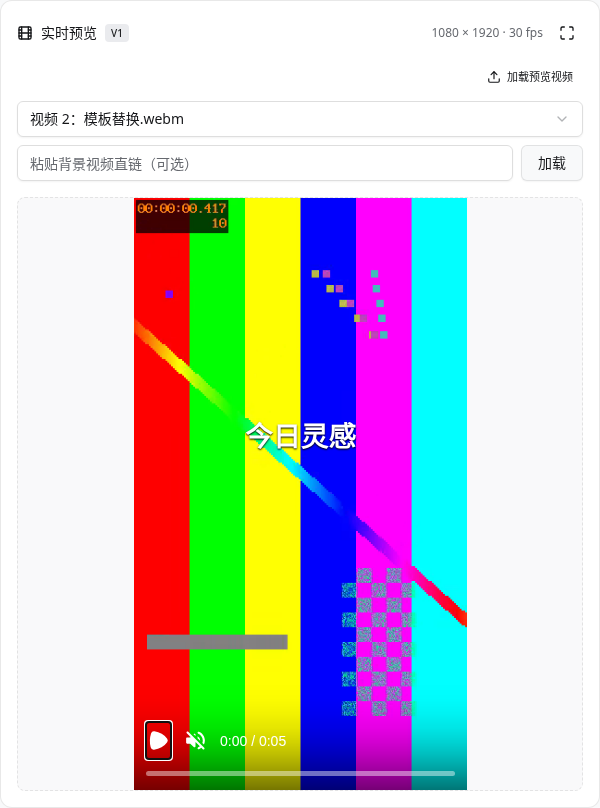
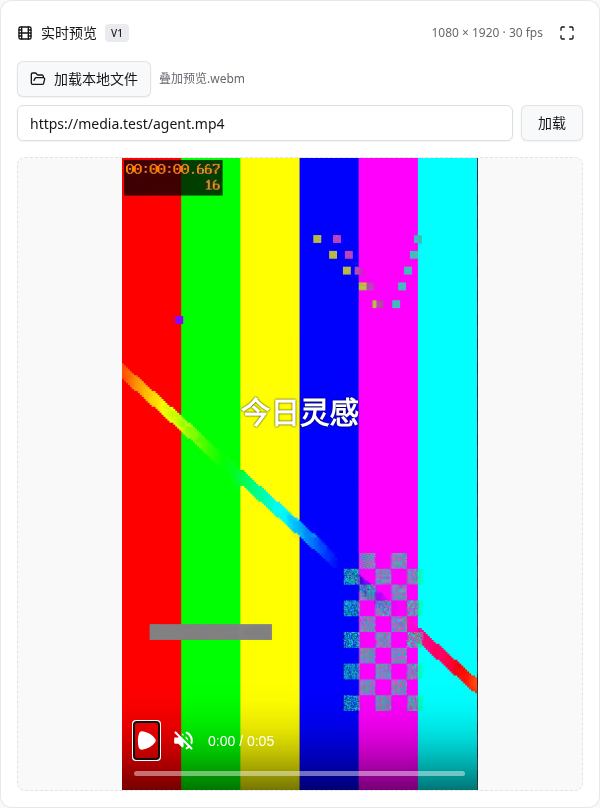
fix(remotion): simplify preview video inputs

Changed region(s): [[0.03, 0.0619, 0.96, 0.9901]]

diff --git a/client/src/features/remotion_templates/PreviewPanel.tsx b/client/src/features/remotion_templates/PreviewPanel.tsx
@@ -3,13 +3,11 @@
  * 清理消息监听和就绪超时。带关键词字效的字效在未填关键词时以示例关键词预览（见 `sampleKeyword`），参数本身不变。
  */
 import { useEffect, useMemo, useRef, useState } from "react";
-import { Film, Maximize, RotateCcw } from "lucide-react";
+import { Film, FolderOpen, Maximize, RotateCcw } from "lucide-react";
 import { Button } from "@/components/ui/button";
 import { Input } from "@/components/ui/input";
-import { Select, SelectContent, SelectItem, SelectTrigger, SelectValue } from "@/components/ui/select";
-import { localPreviewVideos, localVideoSlots, subscribeLocalVideos } from "@/features/templates/localVideos";
-import { MasterVideoInput } from "@/features/templates/MasterVideoInput";
-import type { PreviewMedia } from "@/features/templates/model";
+import { commitLocalVideos, LOCAL_VIDEO_MAX_BYTES, localPreviewVideos, localVideoSlots, subscribeLocalVideos } from "@/features/templates/localVideos";
+import { readMasterVideo } from "@/features/templates/media";
 import { apiUrl } from "./api";
 import { backgroundUrl, sampleKeyword, type Values, type Version } from "./model";
 import { Spinner } from "@/components/ui/spinner";
@@ -30,11 +28,11 @@ export function PreviewPanel({
   const shown = useMemo(() => (sample ? { ...values, keywords: [sample] } : values), [values, sample]);
   const [link, setLink] = useState("");
   const [background, setBackground] = useState("");
-  const [localSlot, setLocalSlot] = useState<number | null>(null);
-  const [localVideos, setLocalVideos] = useState(localVideoSlots);
-  const [media, setMedia] = useState<PreviewMedia>();
+  const [useLocal, setUseLocal] = useState(true);
+  const [localVideo, setLocalVideo] = useState(() => localVideoSlots()[0]);
+  const [loadingFile, setLoadingFile] = useState(false);
   const [backgroundError, setBackgroundError] = useState("");
-  const videoUrl = localSlot === null ? background : localVideos[localSlot]?.url ?? "";
+  const videoUrl = useLocal ? localVideo?.url ?? "" : background;
   const [error, setError] = useState("");
   // 已就绪的通道而不是布尔值：切换版本时 iframe 若在清空渲染前就回报就绪，false→true 会被合并成未变化，
   // 参数不再下发，预览锁到超时；每次加载的通道都不同，就绪必然触发一次下发。
@@ -43,6 +41,8 @@ export function PreviewPanel({
   const [reload, setReload] = useState(0);
   const frame = useRef<HTMLIFrameElement>(null);
   const stage = useRef<HTMLDivElement>(null);
+  const picker = useRef<HTMLInputElement>(null);
+  const fileRequest = useRef<AbortController | null>(null);
   const channel = useRef("");
   const requestId = useRef(0);
   const timer = useRef<number | undefined>(undefined);
@@ -50,12 +50,12 @@ export function PreviewPanel({
   const rendered = useRef(false);
   useEffect(() => {
     let active = true;
-    const refresh = (sources?: PreviewMedia) => { setLocalVideos(localVideoSlots()); setMedia(sources); };
+    const refresh = () => setLocalVideo(localVideoSlots()[0]);
     const unsubscribe = subscribeLocalVideos(refresh);
     void localPreviewVideos().then(() => { if (active) refresh(); }).catch((reason) => {
       if (active) setBackgroundError(reason instanceof Error ? reason.message : "本地视频读取失败");
     });
-    return () => { active = false; unsubscribe(); };
+    return () => { active = false; unsubscribe(); fileRequest.current?.abort(); };
   }, []);
   useEffect(() => { setBackgroundError(""); }, [videoUrl]);
   /** 每次加载都有超时出口；播放本身不触发锁定。 */
@@ -146,12 +146,34 @@ export function PreviewPanel({
       );
     }
   }, [shown, ready]);
+  /** 只校验所选文件并替换共享视频 1；失败保留旧视频，未登记的 URL 及时释放。 */
+  async function pick(file: File | undefined) {
+    if (!file || fileRequest.current) return;
+    if (file.size > LOCAL_VIDEO_MAX_BYTES) { setBackgroundError("本地视频不能超过 512 MiB"); return; }
+    const request = new AbortController();
+    fileRequest.current = request;
+    const url = URL.createObjectURL(file);
+    setLoadingFile(true);
+    setBackgroundError("");
+    try {
+      const media = await readMasterVideo(url, request.signal);
+      if (request.signal.aborted) return;
+      await commitLocalVideos([{ kind: "file", name: file.name, url, file }], [media]);
+      if (!request.signal.aborted) { setUseLocal(true); setBackground(""); }
+    } catch (reason) {
+      if (!request.signal.aborted) setBackgroundError(reason instanceof Error ? reason.message : "本地视频读取失败");
+    } finally {
+      if (localVideoSlots()[0]?.url !== url) URL.revokeObjectURL(url);
+      fileRequest.current = null;
+      if (!request.signal.aborted) setLoadingFile(false);
+    }
+  }
   /** 直链与本地文件都只更新客户端底层视频。 */
   function load() {
-    if (pending || rendering) return;
+    if (pending || rendering || loadingFile) return;
     try {
       setBackground(backgroundUrl(link));
-      setLocalSlot(null);
+      setUseLocal(false);
       setBackgroundError("");
     } catch (reason) {
       setBackgroundError(reason instanceof Error ? reason.message : "视频链接无效");
@@ -180,25 +202,14 @@ export function PreviewPanel({
           <Maximize aria-hidden="true" />
         </Button>}
       </div>
-      <div className="mb-2 flex">
-        <MasterVideoInput media={media} onChange={(sources) => {
-          const index = localSlot !== null && sources[localSlot].url.startsWith("blob:")
-            ? localSlot : sources.findIndex((video) => video.url.startsWith("blob:"));
-          setLocalSlot(index < 0 ? null : index);
-          setBackground(index < 0 ? sources[0].url : "");
-        }} />
+      <div className="mb-2 flex min-w-0 items-center gap-2">
+        <input ref={picker} type="file" accept="video/*" aria-label="本地预览视频文件" className="sr-only" tabIndex={-1}
+          onChange={(event) => { void pick(event.target.files?.[0]); event.target.value = ""; }} />
+        <Button type="button" variant="outline" disabled={loadingFile} onClick={() => picker.current?.click()}>
+          {loadingFile ? <Spinner /> : <FolderOpen aria-hidden="true" />}{loadingFile ? "正在加载…" : "加载本地文件"}
+        </Button>
+        {useLocal && localVideo && <span className="truncate text-xs text-muted-foreground" title={localVideo.name}>{localVideo.name}</span>}
       </div>
-      <Select value={localSlot !== null && localVideos[localSlot] ? String(localSlot) : background ? "url" : "none"}
-        onValueChange={(value) => { setLocalSlot(value === "none" || value === "url" ? null : Number(value)); if (value !== "url") setBackground(""); }}>
-        <SelectTrigger aria-label="预览背景" className="mb-2 w-full"><SelectValue /></SelectTrigger>
-        <SelectContent>
-          <SelectItem value="none">无背景视频</SelectItem>
-          {localVideos.map((video, index) => <SelectItem key={index} value={String(index)} disabled={!video}>
-            视频 {index + 1}：{video?.name ?? "未加载本地文件"}
-          </SelectItem>)}
-          {background && <SelectItem value="url">已加载的视频直链</SelectItem>}
-        </SelectContent>
-      </Select>
       <form
         className="mb-4 flex gap-2"
         onSubmit={(event) => {
@@ -210,10 +221,10 @@ export function PreviewPanel({
           aria-label="背景视频直链"
           placeholder="粘贴背景视频直链（可选）"
           value={link}
-          disabled={pending || rendering}
+          disabled={pending || rendering || loadingFile}
           onChange={(event) => setLink(event.target.value)}
         />
-        <Button type="submit" variant="outline" disabled={pending || rendering}>
+        <Button type="submit" variant="outline" disabled={pending || rendering || loadingFile}>
           加载
         </Button>
       </form>

diff --git a/client/tests/local-preview-videos.test.tsx b/client/tests/local-preview-videos.test.tsx
@@ -1,5 +1,5 @@
 /**
- * 预览视频弹窗的本地文件来源：选择、加载、移除、超限、取消释放，以及桌面端写入/删除本机副本、
+ * Agent 直接选文件并共享视频 1；模板弹窗选择、加载、移除、超限、取消释放，以及桌面端写入/删除本机副本、
  * 多槽位失败回滚、保存期间不可取消和逐个恢复本机视频。
  * 视频元数据通过替换 HTMLMediaElement 的 src 设置器模拟，不读取真实媒体；执行 bun run test。
  */
@@ -47,7 +47,7 @@ afterEach(async () => {
   Object.defineProperty(HTMLMediaElement.prototype, "src", source);
   // 本地视频登记是模块级状态，每例结束以浏览器模式改回 URL，避免影响其他用例。
   Reflect.deleteProperty(globalThis, "isTauri");
-  await commitLocalVideos([0, 1, 2].map(() => ({ kind: "url", url: "" })));
+  await act(async () => commitLocalVideos([0, 1, 2].map(() => ({ kind: "url", url: "" }))));
 });
 
 /** 打开弹窗并返回对话框元素。 */
@@ -61,27 +61,53 @@ function choose(dialog: HTMLElement, index: number, file: File) {
   fireEvent.change(within(dialog).getByLabelText(`视频 ${index} 本地视频文件`), { target: { files: [file] } });
 }
 
-// 两页直接使用同一个选文件弹窗；Agent 尚无字效也能播放视频，替换文件后两页保持一致。
-test("Remotion 直接加载本地文件并与模板文件弹窗双向共享", async () => {
+// Agent 原位选择一个文件，只读取该文件并共享视频 1；模板替换后同步，URL 模式保持独立。
+test("Remotion 直接选择文件并共享视频 1，保留其他槽位", async () => {
+  const other = new File(["other"], "保留素材.mp4", { type: "video/mp4" });
+  const otherUrl = URL.createObjectURL(other);
+  await commitLocalVideos([{ kind: "url", url: "" }, { kind: "file", name: other.name, url: otherUrl, file: other }]);
   const agent = render(<PreviewPanel version={null} values={{}} pending={false} onBusyChange={() => {}} />);
-  fireEvent.click(within(agent.container).getByRole("button", { name: "加载预览视频" }));
-  let dialog = screen.getByRole("dialog", { name: "加载预览视频" });
-  choose(dialog, 2, new File(["video"], "Agent素材.mp4", { type: "video/mp4" }));
-  await act(async () => fireEvent.click(within(dialog).getByRole("button", { name: "加载" })));
-  await waitFor(() => expect(localVideoSlots()[1]?.name).toBe("Agent素材.mp4"));
-  expect(within(agent.container).getByLabelText<HTMLVideoElement>("预览背景视频").src).toBe(localVideoSlots()[1]!.url);
+  expect(screen.queryByRole("button", { name: "加载预览视频" })).toBeNull();
+  expect(screen.queryByRole("combobox", { name: "预览背景" })).toBeNull();
+  await act(async () => fireEvent.change(screen.getByLabelText("本地预览视频文件"), { target: { files: [new File(["video"], "Agent素材.mp4", { type: "video/mp4" })] } }));
+  expect(localVideoSlots()[0]?.name).toBe("Agent素材.mp4");
+  expect(assigned).toEqual([localVideoSlots()[0]!.url]);
+  expect(localVideoSlots()[1]?.url).toBe(otherUrl);
+  expect(within(agent.container).getByLabelText<HTMLVideoElement>("预览背景视频").src).toBe(localVideoSlots()[0]!.url);
   expect(screen.queryByTitle("Remotion 字效播放器")).toBeNull();
 
   const editor = render(<MasterVideoInput onChange={() => {}} />);
   fireEvent.click(within(editor.container).getByRole("button", { name: "加载预览视频" }));
-  dialog = screen.getByRole("dialog", { name: "加载预览视频" });
-  expect(within(dialog).getByLabelText("视频 2 本地文件").textContent).toBe("Agent素材.mp4");
-  choose(dialog, 2, new File(["replacement"], "替换素材.mp4", { type: "video/mp4" }));
+  const dialog = screen.getByRole("dialog", { name: "加载预览视频" });
+  expect(within(dialog).getByLabelText("视频 1 本地文件").textContent).toBe("Agent素材.mp4");
+  choose(dialog, 1, new File(["replacement"], "替换素材.mp4", { type: "video/mp4" }));
   await act(async () => fireEvent.click(within(dialog).getByRole("button", { name: "加载" })));
-  await waitFor(() => expect(localVideoSlots()[1]?.name).toBe("替换素材.mp4"));
-  expect(within(agent.container).getByLabelText<HTMLVideoElement>("预览背景视频").src).toBe(localVideoSlots()[1]!.url);
-  fireEvent.click(within(agent.container).getByRole("button", { name: "加载预览视频" }));
-  expect(screen.getByLabelText("视频 2 本地文件").textContent).toBe("替换素材.mp4");
+  expect(within(agent.container).getByLabelText<HTMLVideoElement>("预览背景视频").src).toBe(localVideoSlots()[0]!.url);
+  fireEvent.change(screen.getByLabelText("背景视频直链"), { target: { value: "https://media.test/remote.mp4" } });
+  fireEvent.click(within(agent.container).getByRole("button", { name: "加载" }));
+  await act(async () => commitLocalVideos([{ kind: "url", url: "" }]));
+  expect(within(agent.container).getByLabelText<HTMLVideoElement>("预览背景视频").src).toBe("https://media.test/remote.mp4");
+});
+
+// 文件过大或无法解码时保留当前预览和共享文件，失败的新 blob 释放。
+test.each(["size", "decode"])("Remotion 本地文件 %s 失败保留旧视频", async (failure) => {
+  render(<PreviewPanel version={null} values={{}} pending={false} onBusyChange={() => {}} />);
+  const input = screen.getByLabelText("本地预览视频文件");
+  await act(async () => fireEvent.change(input, { target: { files: [new File(["video"], "原素材.mp4", { type: "video/mp4" })] } }));
+  const previous = localVideoSlots()[0]!.url;
+  const revoked = spyOn(URL, "revokeObjectURL");
+  const file = new File(["bad"], "无效素材.mp4", { type: "video/mp4" });
+  if (failure === "size") Object.defineProperty(file, "size", { value: LOCAL_VIDEO_MAX_BYTES + 1 });
+  else Object.defineProperty(HTMLMediaElement.prototype, "src", {
+    configurable: true, get: source.get,
+    set(this: HTMLMediaElement, value: string) { source.set!.call(this, value); queueMicrotask(() => this.dispatchEvent(new Event("error"))); },
+  });
+  await act(async () => fireEvent.change(input, { target: { files: [file] } }));
+  expect(screen.getByRole("alert").textContent).toContain(failure === "size" ? "512 MiB" : "本地视频无法播放");
+  expect(localVideoSlots()[0]!.url).toBe(previous);
+  expect(screen.getByLabelText<HTMLVideoElement>("预览背景视频").src).toBe(previous);
+  expect(revoked.mock.calls).not.toContainEqual([previous]);
+  if (failure === "decode") expect(revoked).toHaveBeenCalledWith(created.at(-1)!);
 });
 
 // 场景：视频 2 选择本地文件并加载，其余仍用默认地址；再次打开显示为文件，移除后改回默认 URL。

diff --git a/client/src/features/templates/localVideos.ts b/client/src/features/templates/localVideos.ts
@@ -5,7 +5,7 @@
  */
 import { updateInvoke as invoke } from "@/lib/update-guard";
 import { isTauri } from "@tauri-apps/api/core";
-import type { PreviewMedia } from "./model";
+import type { MasterVideo } from "./model";
 
 /** 单个本地视频上限，与桌面存储一致；字节需完整经过 IPC 并在页面内存生成 blob。 */
 export const LOCAL_VIDEO_MAX_BYTES = 512 * 1024 * 1024;
@@ -18,10 +18,10 @@ export type VideoSource = { kind: "url"; url: string } | { kind: "file"; name: s
 
 const slots: (LocalVideo | undefined)[] = [undefined, undefined, undefined];
 let restored: Promise<void> | undefined;
-const listeners = new Set<(media?: PreviewMedia) => void>();
+const listeners = new Set<(media?: readonly MasterVideo[]) => void>();
 
 /** 两个工作区保持挂载，保存或移除后通知背景预览更新来源。 */
-export function subscribeLocalVideos(listener: (media?: PreviewMedia) => void): () => void {
+export function subscribeLocalVideos(listener: (media?: readonly MasterVideo[]) => void): () => void {
   listeners.add(listener);
   return () => { listeners.delete(listener); };
 }
@@ -66,13 +66,13 @@ async function save(index: number, name: string, blob: Blob) {
 }
 
 /**
- * 弹窗读取三个来源成功后保存：新文件写入桌面存储并登记，改用 URL 的槽位删除本地视频。
+ * 保存已校验的来源（Agent 只传视频 1，弹窗传三个）：新文件写入桌面存储并登记，改用 URL 的槽位删除本地视频。
  * 先等待桌面恢复结束，使晚到的恢复不会把刚删除的本机副本重新登记；桌面端 URL 来源一律删除对应槽位的副本，
  * 包括恢复失败而未登记的槽位。任一槽位失败时已完成的槽位写回原状（登记与本机存储一并回滚），再抛错；
- * 此时新选择的 blob URL 仍未被登记，由弹窗负责释放。全部成功才释放被替换的 blob URL，
+ * 此时新选择的 blob URL 仍未被登记，由调用方负责释放。全部成功才释放被替换的 blob URL，
  * 失败时当前预览可能仍在使用，暂不释放。
  */
-export async function commitLocalVideos(sources: readonly VideoSource[], media?: PreviewMedia): Promise<void> {
+export async function commitLocalVideos(sources: readonly VideoSource[], media?: readonly MasterVideo[]): Promise<void> {
   await localPreviewVideos().catch(() => undefined);
   const before = [...slots];
   const done: number[] = [];

diff --git a/client/src/features/templates/TemplateWorkspace.tsx b/client/src/features/templates/TemplateWorkspace.tsx
@@ -149,8 +149,18 @@ export function TemplateWorkspace({ selection = null, deletedTemplate = null, on
     setCurrent(null); setDraft(null); setEditing(null); setBaseline(""); setError("");
   }, [deletedTemplate, current, environment, openRequest]);
 
-  // Remotion 页也能更换来源，复用弹窗已读到的元数据，避免继续使用已释放的 blob URL。
-  useEffect(() => subscribeLocalVideos((sources) => { setMedia(sources); setMediaError(""); }), []);
+  // Agent 只替换视频 1，保留模板已选择的视频 2、3；无需再次读取已校验的文件。
+  useEffect(() => subscribeLocalVideos((sources) => {
+    if (!sources) return;
+    setMedia((current) => {
+      const first = sources[0] ?? current?.[0];
+      const second = sources[1] ?? current?.[1];
+      const third = sources[2] ?? current?.[2];
+      return first && second && third ? [first, second, third] : undefined;
+    });
+    setMediaAttempt((value) => value + 1); // 默认读取若尚未结束，取消旧请求并按最新来源重读。
+    setMediaError("");
+  }), []);
 
   // 默认地址（本机保存的本地视频优先）与弹窗均读取真实元数据；已选择来源时不再启动默认读取。
   useEffect(() => {

diff --git a/client/tests/remotion.test.tsx b/client/tests/remotion.test.tsx
@@ -639,8 +639,6 @@ test("共享本地预览视频并同步替换和删除", async () => {
   const empty = { kind: "url" as const, url: "" };
   try {
     await act(async () => commitLocalVideos([{ kind: "file", name: file.name, file, url: first }, empty, empty]));
-    fireEvent.keyDown(screen.getByRole("combobox", { name: "预览背景" }), { key: "ArrowDown" });
-    fireEvent.click(await screen.findByRole("option", { name: "视频 1：本地素材.mp4" }));
     const video = screen.getByLabelText<HTMLVideoElement>("预览背景视频");
     expect(video.src).toBe(first);
     expect(video.autoplay && video.muted && video.loop).toBe(true);

diff --git a/AGENTS.md b/AGENTS.md
@@ -116,7 +116,7 @@
 - 名称去除首尾空白后不能为空，MySQL 唯一约束拒绝重名（409）；保存校验数值范围、效果目录与动画互斥关系（422）。服务端生成 ID、UTC 时间和效果参数快照，不接受客户端渲染参数。
 - 主页创建草稿不调用 POST；模板库保存时无 ID 创建、有 ID 更新。未保存切换须提供保存并切换、放弃修改、取消，失败保留草稿。
 - 前端使用 SDK 5.2.2 的效果目录和静态动画 JSON，服务端维护同版本白名单；不提供 `/template/effects`。升级 SDK 时同步核对目录。修改 `proto/` 协议后运行 `buf lint`、`buf generate` 并提交三种语言的生成代码；已发布协议使用 `buf breaking` 检查兼容性。
-- Remotion Agent 的预览背景复用模板编辑的三个本地视频槽位（`localVideos.ts` 提交或回滚后通知已挂载预览），两页均使用 `MasterVideoInput` 的「加载预览视频」弹窗直接选择文件，提交后同步已校验的来源与元数据；Agent 加载后自动选择一个本地视频，没有字效版本也能预览，可切换槽位或使用直链。背景由客户端底层 `<video>` 静音独立循环，字效保持自己的播放控制；版本预览路由的 `overlay=true` 复用 `player_page` 的透明页面封装，不改封存播放器包、不把视频传进 iframe 或 Agent 请求。
+- Remotion Agent 的预览区直接提供「加载本地文件」和 URL 输入框，不使用三视频弹窗或槽位下拉。选文件只读取该文件的元数据，与模板编辑的「视频 1」共用本地存储（`localVideos.ts` 提交或回滚后通知已挂载预览），同步来源与元数据、保留模板的视频 2、3；失败保留旧视频，URL 只用于当前 Agent 预览，不覆盖共享文件。没有字效版本也能预览。背景由客户端底层 `<video>` 静音独立循环，字效保持自己的播放控制；版本预览路由的 `overlay=true` 复用 `player_page` 的透明页面封装，不改封存播放器包、不把视频传进 iframe 或 Agent 请求。
 
 - 视频 1、视频 2、视频 3 的默认地址分别通过 `client/.env` 中的 `VITE_PREVIEW_VIDEO_1_URL`、`VITE_PREVIEW_VIDEO_2_URL`、`VITE_PREVIEW_VIDEO_3_URL` 配置，均支持 HTTP(S) 直链与 public 资源路径；未配置或空值使用对应内置示例。修改后重启 Vite，生产使用需重新构建。「加载预览视频」打开弹窗设置视频 1、视频 2、视频 3 的 URL 或本地文件（`features/templates/localVideos.ts`，每个不超过 512 MiB，以 blob URL 播放，不上传服务端；桌面由 Tauri `preview_video_list/read/write/remove` 保存在应用数据目录 `data/preview_videos/`，重启后依次读回并优先于默认地址，单个文件不可读时该槽位回退默认地址；数据文件唯一命名、元数据替换为提交点，中断或失败不丢失旧视频，加载中任一槽位保存失败则已完成的槽位回滚，保存期间弹窗不可关闭；改用 URL 即删除该槽位的本机副本；浏览器只在页面内存，刷新恢复默认），读取全部真实时长和尺寸并通过时间校验后一起更新、本地文件保存成功后才替换来源；失败保留当前来源并标明视频编号，关闭或取消终止读取。默认与 URL 来源各取前十秒、不足十秒时使用完整区间，本地文件使用完整时长（`previewVideos` 按 blob URL 区分），保留当前排列，画布采用视频 1 的尺寸。视频信息独立于模板保存，独立视频元素在完成、失败、取消和卸载时清理。
 - 模板预览画布与 SDK 场景使用视频原始宽高；默认示例也读取真实尺寸并保留十秒区间。标题、字幕和气泡字号支持 12～300 的整数，预览、云端和本地保存统一校验；字号按画布像素计算，标题和字幕预览保留原文，不添加自动换行。显示区域同时受可用宽度与窗口高度的 48% 限制，等比例呈现完整画面。SDK 在独立 iframe 初始化，通过 `maxCanvasConfig` 设置尺寸，视频尺寸变化时重新初始化并清理旧播放器。

diff --git a/client/src/features/remotion_templates/README.md b/client/src/features/remotion_templates/README.md
@@ -16,8 +16,8 @@
 字效的 `fontFamily` 参数（以及双栏字效每栏的字体 `line1FontFamily`/`line2FontFamily`）使用字体选择器（`features/fonts/FontPicker.tsx`，由 `ParameterControl` 对这些参数名自动采用，聊天参数面板与模板编辑的「外观与位置」共用）：选项来自共享字体库（`GET /api/templates/fonts`，预装与用户上传的字体，不是生成时冻结的枚举），每项用服务端预览条以字体自己的样子展示（CSS mask 随主题着色），可按名称或风格搜索；浮层底部可上传自己的 .ttf/.otf（`POST /api/templates/fonts`）：浏览器先用该字体画出预览条，同时验证文件可读，再与文件、名称一起上传，成功后立即选中，失败原因（重名、格式、大小）留在浮层里。左侧导航「工作空间」组另有「字体库」页面（`features/fonts/FontLibrary.tsx`）：以卡片列出库内全部字体（预览条、家族名、风格、来源、字重、大小），可搜索，也可直接上传字体；页面每次打开都重新读取字体库。Agent 按参考图从字体库里选一个作为默认字体，用户可在这里改选；选择保存在模板轨道的 `editor.remotion.parameters`。没有 `fontFamily` 的旧字效不显示字体选择。
 模型只通过服务端调用，聊天仍使用 `/api/templates` API 和作品级 SSE。
 新结果交付 Export.tsx 与隔离 Player；代码、参数与时长由服务端封存，参数修订复用原播放器包，预览页注入该版本的默认值。
-预览区的「加载预览视频」复用模板编辑的同名弹窗，可直接选择本地文件或填写三个视频的 URL；加载后自动选择一个本地视频（没有本地文件时使用视频 1 的 URL），还可通过下拉切换视频 1～3，或单独填写背景直链。尚无字效版本时也能播放背景视频。本地文件共用原有存储，两页的替换、移除和已读取的来源双向同步。背景由客户端底层 `<video>` 静音循环播放，与字效的播放、暂停和进度独立；上层版本播放器使用 `?overlay=true` 透明显示，复用原封存包，历史版本同样适用。背景视频只留在客户端，不进入 iframe、Agent 请求或导出源码。
-操作截图：[选择本地视频](../../../../docs/images/remotion-local-video-picker.png) · [视频与字效叠加预览](../../../../docs/images/remotion-local-preview.png)（浏览器夹具，使用测试视频）。
+预览区直接提供「加载本地文件」和背景视频 URL 输入框，选文件后即可预览，无需额外弹窗或槽位选择。只读取所选文件的元数据，与模板编辑的「视频 1」共用原有本地存储和文件变更通知，不改动视频 2、3；文件过大、不可播放或保存失败时保留旧视频。URL 只用于当前 Agent 预览，不覆盖共享文件。尚无字效版本时也能播放背景视频。背景由客户端底层 `<video>` 静音循环播放，与字效的播放、暂停和进度独立；上层版本播放器使用 `?overlay=true` 透明显示，复用原封存包，历史版本同样适用。背景视频只留在客户端，不进入 iframe、Agent 请求或导出源码。
+操作截图：[本地文件与 URL 入口](../../../../docs/images/remotion-local-video-picker.png) · [视频与字效叠加预览](../../../../docs/images/remotion-local-preview.png)（浏览器夹具，使用测试视频）。
 
 旧版本继续显示原画布与扁平控件。成功版本卡片提供「保存到资产」：分类下拉默认取 Agent 判断的分类（字效、滤镜、视频特效、转场），可以改选，再调用 `POST /api/sprites/publish`；
 字效固定发布 `text` 字段，版本声明了关键词参数时同时发布 `keywords`。服务端先渲染参数边界样本（请求最长等待 180 秒），所选分类缺少必备参数或版本早于分类时显示服务端原因；
